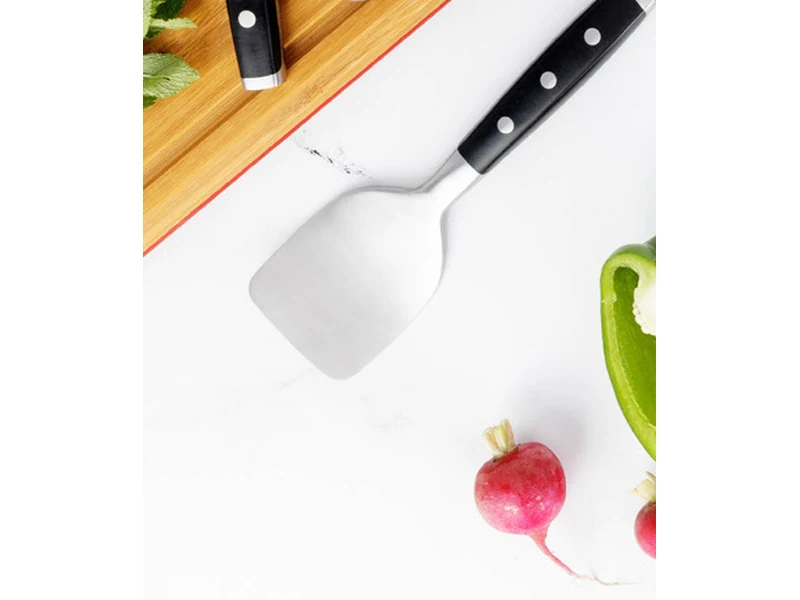
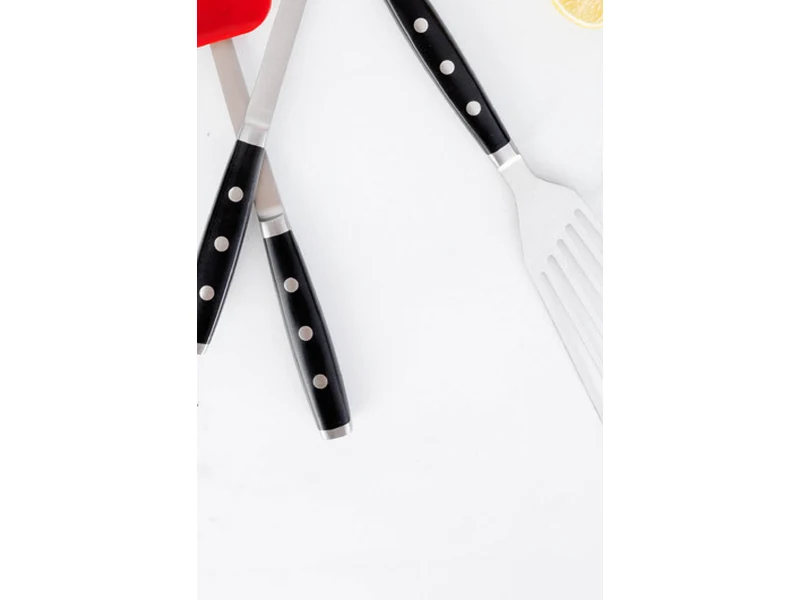
Refine Coach catalog image audit

diff --git a/server.js b/server.js
@@ -24104,6 +24104,10 @@ const COACH_CATALOG_PRODUCT_IMAGES = {
 
 const COACH_CATALOG_PRODUCT_NAME_RULES = [
   {
+    patron: /^luz ultra violeta$/,
+    producto: null
+  },
+  {
     patron: /^olla de 3 cuartos$/,
     producto: ["olla-3-cuartos", 9, "Olla de 3 cuartos"]
   },
@@ -24347,11 +24351,11 @@ const COACH_CATALOG_IMAGE_RULES = [
 function construirImagenProductoCatalogoCoach(codigo = "", nombre = "") {
   const codigoNormalizado = String(codigo || "").trim().toUpperCase();
   const nombreNormalizado = normalizarTextoBusquedaCoach(nombre);
-  const productoPorNombre = nombreNormalizado
-    ? COACH_CATALOG_PRODUCT_NAME_RULES.find(item => item.patron.test(nombreNormalizado))?.producto
+  const reglaProductoPorNombre = nombreNormalizado
+    ? COACH_CATALOG_PRODUCT_NAME_RULES.find(item => item.patron.test(nombreNormalizado))
     : null;
   const productoPorCodigo = codigoNormalizado ? COACH_CATALOG_PRODUCT_IMAGES[codigoNormalizado] : null;
-  const producto = productoPorNombre || productoPorCodigo;
+  const producto = reglaProductoPorNombre ? reglaProductoPorNombre.producto : productoPorCodigo;
   const reglaPorCodigo = codigoNormalizado
     ? COACH_CATALOG_IMAGE_RULES.find(item => item.codigos.includes(codigoNormalizado))
     : null;

diff --git a/tests/coach-phase4.test.js b/tests/coach-phase4.test.js
@@ -64,6 +64,15 @@ test("muestra una imagen especifica y distinta para cada tamano de olla", () => 
   assert.ok(ollas.every(item => item.imagen_producto.includes("/products/olla-")));
 });
 
+test("mantiene distintas las espatulas y no inventa una foto para la luz ultravioleta", () => {
+  const espatula = construirImagenProductoCatalogoCoach("SP1852", "ESPATULA");
+  const espatulaHelados = construirImagenProductoCatalogoCoach("SP1859", "ESPATULA PARA HELADOS");
+  const luzUltravioleta = construirImagenProductoCatalogoCoach("WF0654", "LUZ ULTRA VIOLETA");
+
+  assert.notEqual(espatula.imagen_producto, espatulaHelados.imagen_producto);
+  assert.match(luzUltravioleta.imagen_producto, /pagina-48\.webp$/);
+});
+
 test("todos los productos con precio reciben una imagen publica disponible", () => {
   const priceList = JSON.parse(
     readFileSync(new URL("../src/data/lista_de_precios.json", import.meta.url), "utf8")

diff --git a/scripts/build-coach-catalog-product-images.py b/scripts/build-coach-catalog-product-images.py
@@ -149,7 +149,7 @@ def main():
         "cortapizza": (0.36, 0.12, 0.55, 0.47),
         "machacador": (0.48, 0.29, 0.70, 0.64),
         "rallador": (0.67, 0.08, 0.82, 0.50),
-        "espatula-helados": (0.11, 0.55, 0.34, 0.88),
+        "espatula-helados": (0.46, 0.61, 0.67, 0.99),
         "espatula-silicona": (0.34, 0.46, 0.54, 0.94),
         "batidor-globo": (0.68, 0.38, 0.85, 0.87),
     }
